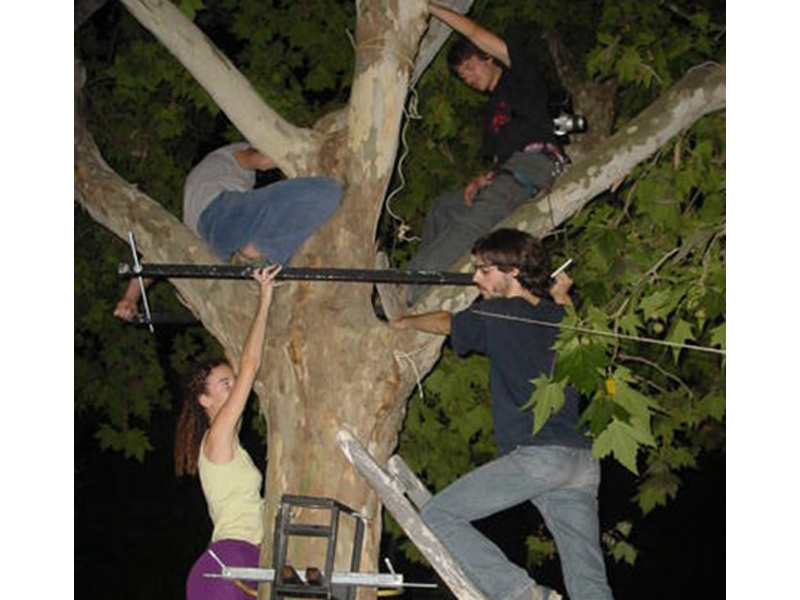
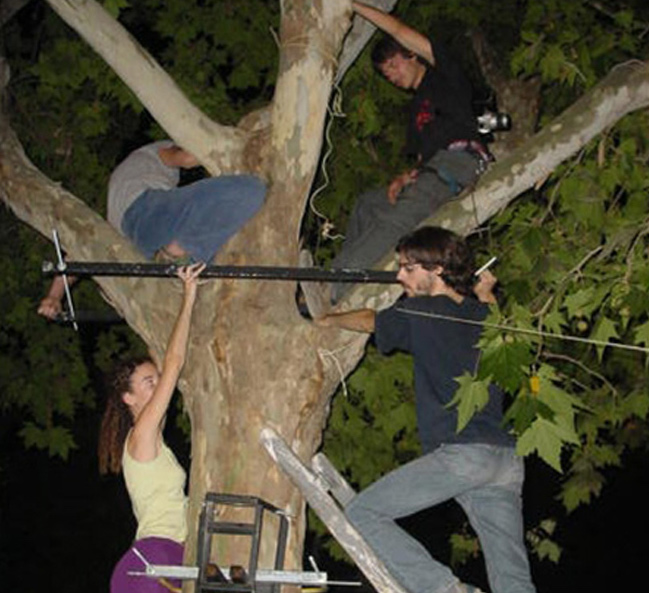
arregle el carusel de fotos

diff --git a/index.html b/index.html
@@ -68,134 +68,22 @@
 <p>Arquitecto español. Se define como arquitecto social y aprovecha vacíos legales para beneficio de la comunidad. Aborda temas como la arquitectura efímera, reciclaje, estrategias de ocupación e intervención urbana, y la participación ciudadana en los procesos de toma de decisión sobre asuntos urbanísticos.</p>
 </div>
 
-<html>
-    <head>
-        <style>
-            .slide {
-                position: absolute;
-                box-shadow: 0px 1px 6px rgba(0, 0, 0, 0.64);
-                margin-top: 50px;
-                margin-left: 30%;
-            }
-            .slide-inner {
-                position: relative;
-                overflow: hidden;
-                width: 60%;
-                height: calc( 420px + 3em);
-            }
-            .slide-open:checked + .slide-item {
-                position: static;
-                opacity: 100;
-            }
-            .slide-item {
-                position: absolute;
-                opacity: 0;
-                -webkit-transition: opacity 0.6s ease-out;
-                transition: opacity 0.6s ease-out;
-            }
-            .slide-item img {
-                display: block;
-                height: auto;
-                max-width: 100%;
-            }
-            .slide-control {
-                background: rgba(0, 0, 0, 0.28);
-                border-radius: 50%;
-                color: #fff;
-                cursor: pointer;
-                display: none;
-                font-size: 40px;
-                height: 40px;
-                line-height: 35px;
-                position: absolute;
-                top: 50%;
-                -webkit-transform: translate(0, -50%);
-                cursor: pointer;
-                -ms-transform: translate(0, -50%);
-                transform: translate(0, -50%);
-                text-align: center;
-                width: 40px;
-                z-index: 10;
-            }
-            .slide-control.prev {
-                left: 2%;
-            }
-            .slide-control.next {
-                right: 2%;
-            }
-            .slide-control:hover {
-                background: rgba(0, 0, 0, 0.8);
-                color: #aaaaaa;
-            }
-            #slide-1:checked ~ .control-1,
-            #slide-2:checked ~ .control-2,
-            #slide-3:checked ~ .control-3 {
-                display: block;
-            }
-            .slide-indicador {
-                list-style: none;
-                margin: 0;
-                padding: 0;
-                position: absolute;
-                bottom: 2%;
-                left: 0;
-                right: 0;
-                text-align: center;
-                z-index: 10;
-            }
-            .slide-indicador li {
-                display: inline-block;
-                margin: 0 5px;
-            }
-            .slide-circulo {
-                color: #828282;
-                cursor: pointer;
-                display: block;
-                font-size: 35px;
-            }
-            .slide-circulo:hover {
-                color: #aaaaaa;
-            }
-            #slide-1:checked ~ .control-1 ~ .slide-indicador 
-                 li:nth-child(1) .slide-circulo,
-            #slide-2:checked ~ .control-2 ~ .slide-indicador 
-                  li:nth-child(2) .slide-circulo,
-            #slide-3:checked ~ .control-3 ~ .slide-indicador 
-                  li:nth-child(3) .slide-circulo {
-                color: #428bca;
-            }
-            #titulo {
-                width: 100%;
-                position: absolute;
-                padding: 0px;
-                margin: 0px auto;
-                text-align: center;
-                font-size: 27px;
-                color: rgba(255, 255, 255, 1);
-                font-family: 'Open Sans', sans-serif;
-                z-index: 9999;
-                text-shadow: 0px 1px 2px rgba(0, 0, 0, 0.33), 
-                     -1px 0px 2px rgba(255, 255, 255, 0);
-            }
-        </style>
-    </head>
-    <body>
-        <div class="slide">
+ <div class="slide">
             <div class="slide-inner">
                 <input class="slide-open" type="radio" id="slide-1" 
                       name="slide" aria-hidden="true" hidden="" checked="checked">
                 <div class="slide-item">
-                    <img src="img/casainsecto1.jpeg" alt="casa1" width="500px" class="casa1">>
+                    <img src="img/casainsecto1.jpeg">
                 </div>
                 <input class="slide-open" type="radio" id="slide-2" 
                       name="slide" aria-hidden="true" hidden="">
                 <div class="slide-item">
-                    <img src="img/casainsecto2.jpeg" alt="casa2" width="500px" class="casa2">
+                    <img src="img/casainsecto2.jpeg">
                 </div>
                 <input class="slide-open" type="radio" id="slide-3" 
                       name="slide" aria-hidden="true" hidden="">
                 <div class="slide-item">
-                    <img src="img/casainsecto3.jpeg" alt="casa3" width="500px" class="casa3">
+                    <img src="img/casainsecto3.jpeg"> 
                 </div>
                 <label for="slide-3" class="slide-control prev control-1">‹</label>
                 <label for="slide-2" class="slide-control next control-1">›</label>
@@ -214,11 +102,8 @@
                         <label for="slide-3" class="slide-circulo">•</label>
                     </li>
                 </ol>
-            </div>
-        </div>
-    </body>
-</html>
+            </div> 
+     
 
-</div>
 </body>
 </html>

diff --git a/style.css b/style.css
@@ -107,4 +107,115 @@ font-family: Squada One;}
       font-size: 20px;}
 .autor p {font-family: Poppins;}
 
+ .slide {
+                position: relative;
+                box-shadow: 0px 1px 6px rgba(0, 0, 0, 0.64);
+                margin-top: 26px;
+            }
+            .slide-inner {
+                position: relative;
+                overflow: hidden;
+                width: 50%;
+
+                height: calc( 600px + 4em);
+                margin-left: auto;
+                margin-right: auto;
+            }
+            .slide-open:checked + .slide-item {
+                position: static;
+                opacity: 100;
+            }
+            .slide-item {
+                position: absolute;
+                opacity: 0;
+                -webkit-transition: opacity 0.6s ease-out;
+                transition: opacity 0.6s ease-out;
+            }
+            .slide-item img {
+                display: block;
+                height: 700px;
+                margin-left: auto;
+                margin-right: auto;
+                width: auto;
+                margin-top: 20px;
+                align-items: center;
+            }
+            .slide-control {
+                background: rgba(0, 0, 0, 0.28);
+                border-radius: 50%;
+                color: #fff;
+                cursor: pointer;
+                display: none;
+                font-size: 40px;
+                height: 40px;
+                line-height: 35px;
+                position: absolute;
+                top: 50%;
+                -webkit-transform: translate(0, -50%);
+                cursor: pointer;
+                -ms-transform: translate(0, -50%);
+                transform: translate(0, -50%);
+                text-align: center;
+                width: 40px;
+                z-index: 10;
+            }
+            .slide-control.prev {
+                left: 2%;
+            }
+            .slide-control.next {
+                right: 2%;
+            }
+            .slide-control:hover {
+                background: rgba(0, 0, 0, 0.8);
+                color: #aaaaaa;
+            }
+            #slide-1:checked ~ .control-1,
+            #slide-2:checked ~ .control-2,
+            #slide-3:checked ~ .control-3 {
+                display: block;
+            }
+            .slide-indicador {
+                list-style: none;
+                margin: 0;
+                padding: 0;
+                position: absolute;
+                bottom: 2%;
+                left: 0;
+                right: 0;
+                text-align: center;
+                z-index: 10;
+            }
+            .slide-indicador li {
+                display: inline-block;
+                margin: 0 5px;
+            }
+            .slide-circulo {
+                color: #828282;
+                cursor: pointer;
+                display: block;
+                font-size: 35px;
+            }
+            .slide-circulo:hover {
+                color: #aaaaaa;
+            }
+            #slide-1:checked ~ .control-1 ~ .slide-indicador 
+                 li:nth-child(1) .slide-circulo,
+            #slide-2:checked ~ .control-2 ~ .slide-indicador 
+                  li:nth-child(2) .slide-circulo,
+            #slide-3:checked ~ .control-3 ~ .slide-indicador 
+                  li:nth-child(3) .slide-circulo {
+                color: #428bca;
+            }
+            #titulo {
+                width: 100%;
+                position: absolute;
+                padding: 0px;
+                margin: 0px auto;
+                text-align: center;
+                font-size: 27px;
+                color: rgba(255, 255, 255, 1);
+                font-family: 'Open Sans', sans-serif;
+                z-index: 9999;
+                text-shadow: 0px 1px 2px rgba(0, 0, 0, 0.33), 
+                     -1px 0px 2px rgba(255, 255, 255, 0);}
 
